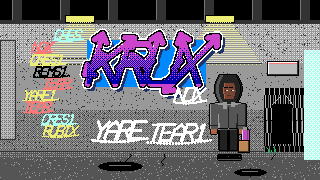
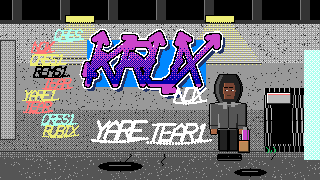
fix(raum): Ausgänge sind zu sehen, ohne "Blick" zu drücken
Der Tester kam aus der Unterführung nicht mehr zur Straße zurück. Der
Ausgang war nie weg: ein 16 Pixel breiter Streifen am äußersten Bildrand,
und das vergrößerte Zaun-Rechteck von gestern drängte sich direkt daneben.

Jetzt trägt jeder Hotspot mit "gehen" einen Pfeil am Bildrand, der immer
zu sehen ist und langsam pulsiert. Das hilft in jedem Raum, nicht nur in
der Unterführung. Dazu ist das Schild am Zaun an den linken Zaunteil
gerutscht, damit sein Hotspot wieder klein wird, und der Ausgang ist von
16 auf 20 Pixel Breite und volle Höhe gewachsen.

Drei Tests halten das fest: Jeder Raum hat einen Ausgang, keiner ist
kleiner als ein Daumen, und kein gleichzeitig sichtbarer Hotspot liegt
darauf.

Claude-Session: https://claude.ai/code/session_01NeHStqd8MhcAouiiJD2DsU

Changed region(s): [[0.8125, 0.3333, 0.9375, 0.4444], [0.8125, 0.5, 0.9375, 0.5833]]

diff --git a/tests/content/playthrough.test.ts b/tests/content/playthrough.test.ts
@@ -792,3 +792,50 @@ describe("Aufstieg zum Tagger", () => {
     expect(sum).toBeLessThan(tagger.xp);
   });
 });
+
+// Nach dem Tester-Feedback vom 26.09.2026: "man kann den KRUX-Spot nicht mehr Richtung Straße
+// verlassen". Der Ausgang war da, aber zu schmal und von einem großen Nachbar-Hotspot bedrängt.
+describe("Ausgänge sind zu finden", () => {
+  const content = loadContent();
+
+  it("jeder Raum außer der Wache führt irgendwohin zurück", () => {
+    for (const room of Object.values(content.rooms)) {
+      const exits = room.hotspots.filter((h) => h.gehen !== undefined);
+      expect(exits.length, `${room.id} hat keinen Ausgang`).toBeGreaterThan(0);
+    }
+  });
+
+  it("kein Ausgang ist kleiner als ein Daumen", () => {
+    for (const room of Object.values(content.rooms)) {
+      for (const h of room.hotspots.filter((x) => x.gehen !== undefined)) {
+        const [, , w, hh] = h.rect;
+        expect(w * hh, `${room.id}.${h.id} ist ${w}×${hh}`).toBeGreaterThanOrEqual(20 * 60);
+      }
+    }
+  });
+
+  it("kein gleichzeitig sichtbarer Hotspot liegt auf einem Ausgang", () => {
+    const base = createNewGame(content, "TESTER", NOW);
+    const known = {
+      ...base,
+      facts: Object.fromEntries(Object.keys(content.facts).map((f) => [f, { new: false }])),
+    };
+    // Tag und Nacht getrennt: Der geschlossene Laden ersetzt nachts den offenen, beide
+    // sind nie zusammen da.
+    for (const phase of [0, 2]) {
+      const state = { ...known, phase };
+      for (const room of Object.values(content.rooms)) {
+        const visible = visibleHotspots(room, state, content);
+        for (const e of visible.filter((h) => h.gehen !== undefined)) {
+          const [ex, ey, ew, eh] = e.rect;
+          for (const other of visible) {
+            if (other.id === e.id) continue;
+            const [ox, oy, ow, oh] = other.rect;
+            const overlap = ex < ox + ow && ox < ex + ew && ey < oy + oh && oy < ey + eh;
+            expect(overlap, `${room.id} (Abschnitt ${phase}): "${other.id}" liegt auf "${e.id}"`).toBe(false);
+          }
+        }
+      }
+    }
+  });
+});

diff --git a/src/ui/game.css b/src/ui/game.css
@@ -974,6 +974,43 @@ body {
   color: var(--c64-grey);
 }
 
+/* Ausgänge: ein Pfeil, der immer da ist. Blinkt langsam, damit er auffällt,
+   ohne dass man hinsehen muss. */
+.exit-arrow {
+  position: absolute;
+  top: 50%;
+  width: 0;
+  height: 0;
+  margin-top: -5px;
+  border-top: 5px solid transparent;
+  border-bottom: 5px solid transparent;
+  pointer-events: none;
+  animation: exit-pulse 2.4s ease-in-out infinite;
+}
+.exit-arrow.right {
+  right: 2px;
+  border-left: 7px solid var(--c64-white);
+}
+.exit-arrow.left {
+  left: 2px;
+  border-right: 7px solid var(--c64-white);
+}
+@keyframes exit-pulse {
+  0%,
+  100% {
+    opacity: 0.35;
+  }
+  50% {
+    opacity: 1;
+  }
+}
+@media (prefers-reduced-motion: reduce) {
+  .exit-arrow {
+    animation: none;
+    opacity: 0.8;
+  }
+}
+
 /* Eigenes Werk am Spot: der Writer-Name an der Wand */
 .work {
   position: absolute;

diff --git a/src/ui/RoomView.tsx b/src/ui/RoomView.tsx
@@ -108,6 +108,11 @@ export function RoomView(props: {
             onPointerUp={(e) => openMenu(e, h)}
             aria-label={h.label}
           >
+            {/* Ausgänge sind immer zu sehen. Ein 16 Pixel breiter Streifen am Bildrand findet
+                sonst niemand, ohne vorher "Blick" zu drücken (Tester, 25.09.2026). */}
+            {h.gehen !== undefined && (
+              <span className={`exit-arrow ${x > STAGE_WIDTH / 2 ? "right" : "left"}`} aria-hidden />
+            )}
             {(placeholder || outlines) && <span className="hotspot-label">{h.label}</span>}
             {h.sprühen && state.works[h.sprühen] && (
               <>

diff --git a/scripts/lib/rooms-art.ts b/scripts/lib/rooms-art.ts
@@ -481,8 +481,8 @@ const unterfuehrung: Scene = (R) => {
   line(a, 272, 104, 280, 96, C.light_grey);
   line(a, 292, 104, 286, 96, C.light_grey);
   // Schild am Zaun: emailliertes Blech, längst nicht mehr zu lesen. Genau dafür da.
-  box(a, 267, 61, 32, 15, C.light_grey, C.white, C.dark_grey);
-  hline(a, 269, 63, 28, C.light_red);
+  box(a, 266, 92, 26, 13, C.light_grey, C.white, C.dark_grey);
+  hline(a, 268, 94, 22, C.light_red);
   weeds(a, 270, 152, 4, C.green, R);
 
   rect(a, 304, 50, 16, 110, C.cyan);
